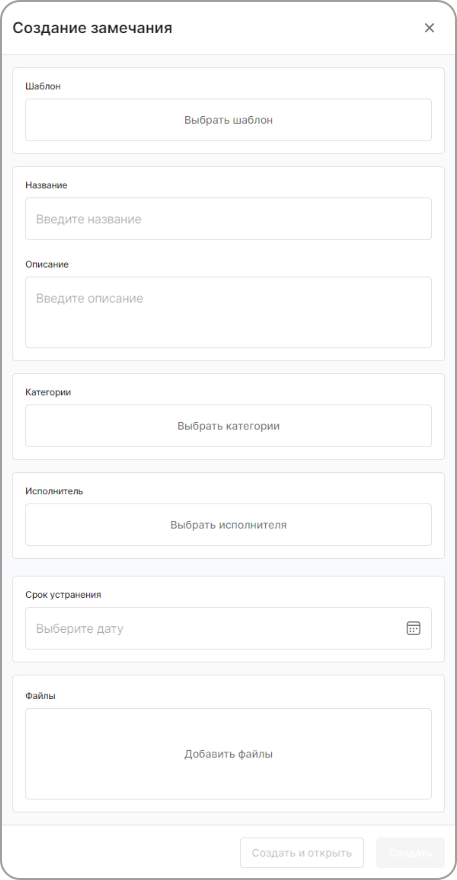
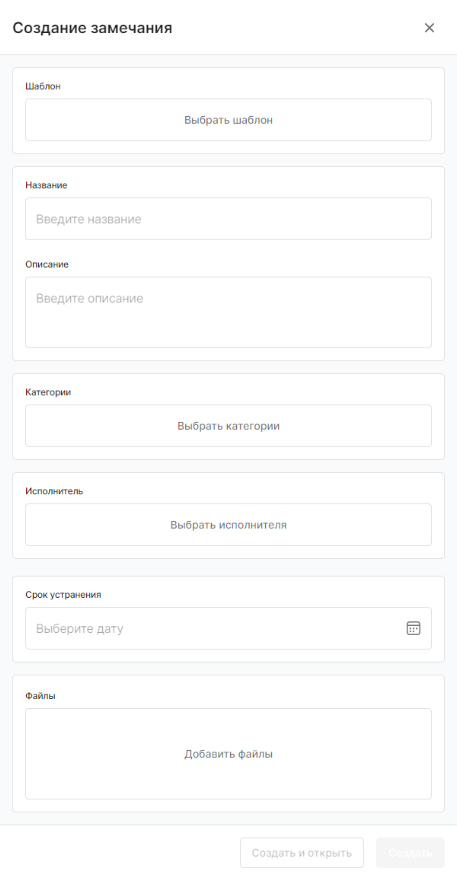
tasc create

Changed region(s): [[0.0, 0.0, 1.0, 1.0]]

diff --git a/docs/_static/css/custom.css b/docs/_static/css/custom.css
@@ -1,5 +1,13 @@
-:root {
-    --pst-color-primary: 51, 51, 51;
+/*:root {
+    --pst-color-primary: green;
+     border: 2px blue;
   }
+.uno img{color: blue;}*/
+.framed img{border:2px solid rgb(184, 180, 180);
+border-radius: 5px;
+}
+/*.framed img{ border: 2px blue;}*/
 
-.framed img { border: 2px #A49E9E;}
+/*:root {
+    --pst-color-primary: 51, 51, 51;
+  }*/

diff --git a/docs/user/work-with-project/work-with-tasks/tasks-creating.rst b/docs/user/work-with-project/work-with-tasks/tasks-creating.rst
@@ -24,6 +24,7 @@
     ..  thumbnail:: images/tasks-creating/tasks-creating-2-adding-task.gif
         :alt: Добавить документацию
         :align: center
+        :class: framed
         :title: Рис. 1. Создание замечания без привязки к плану
         :show_caption: True
 
@@ -40,7 +41,9 @@
 ..  thumbnail:: images/tasks-creating/tasks-creating-3-full-task-view.png
     :alt: Добавить документацию
     :width: 70%
+    :class: framed
     :title: Рис. 2. Развёрнутый вид краткой карточки замечания
+    :align: center
     :show_caption: True
 
 Заполните всю информацию по замечанию, которая доступна на данный момент:
@@ -56,6 +59,7 @@
     ..  thumbnail:: images/tasks-creating/tasks-creating-4-choose-sample.gif
         :alt: Добавить документацию
         :align: center
+        :class: framed
         :title: Рис. 3. Поиск нормативного документа, по ключевым словам, в пункте "Выбрать шаблон"
         :show_caption: True
 
@@ -104,6 +108,7 @@
 ..  thumbnail:: images/tasks-creating/tasks-creating-5-opened-task.png
     :alt: Добавить документацию
     :width: 90%
+    :class: framed
     :title: Рис. 4. Общий вид карточки замечания
     :show_caption: True 
 
@@ -124,15 +129,17 @@
 #.  **Выбрать план**. Прикрепление замечания к чертежу.
 #.  **Выбрать шаблон**. Данная функция позволяет заполнять поля Название и Описание типовыми формулировками.
 #.  **Номер**. Номер замечания выдаётся программой автоматически.
+#.  **Элемент структуры**. В данном поле отображается полный путь до структурного элемента, на котором находится замечание.
 #.  **Название**. Придумайте название для вашего замечания. Название и вся информация в данном разделе должна быть максимально точной, она будет автоматически включена в предписание и отчет.
 #.  **Описание**. Подробно опишите замечание.
 #.  **Местоположение**. В данной строке можно указывать названия осей или локацию, к которой относится замечание.
 #.  **Предложение по устранению**. В этом поле вы можете написать свои рекомендации по устранению нарушения.
 #.  **Категории**. Некий идентификатор, который присваивается замечанию и по которому можно задать фильтр для поиска. Список категорий настраивается в административной панели.
-#.  **Ответственный**. ФИО пользователя контролирующего устранения замечания. По умолчанию заполняется ФИО пользователя, создавшим замечание.
+#.  **Автор**. ФИО пользователя контролирующего устранения замечания. По умолчанию заполняется ФИО пользователя, создавшим замечание.
 #.  **Исполнитель**. Представитель компании, отвечающий за выполнение работ по устранению данного замечания.
-#.  **Срок устранения**. На усмотрение автора замечания. Может быть скорректирован по договоренности с исполнителем.
 #.  **Наблюдатели**. В этом поле вы можете указать участников, которых необходимо дополнительно информировать о ходе устранения нарушения, например, начальника технического надзора. Таких участников может быть несколько.
+#.  **Дата создания**. Данное поле недоступно для редактирования. Оно заполняется автоматически в момент создания замечания.
+#.  **Срок устранения**. На усмотрение автора замечания. Может быть скорректирован по договоренности с исполнителем.
 #.  **Фактическая дата устранения**. Проставляется автоматически при смене статуса замечания на «Проверено».
 #.  **Дата отчетности**. В этом поле вы можете указать дату, которая будет указана в предписании. Можно редактировать.
 
@@ -141,6 +148,7 @@
 ..  thumbnail:: images/tasks-creating/tasks-creating-6-full-view-in-main.png
     :alt: Добавить документацию
     :align: center
+    :class: framed
     :title: Рис. 5. Развёрнутый вариант заполненной вкладки "Главное"
     :show_caption: True
 
@@ -152,6 +160,7 @@
 ..  thumbnail:: images/tasks-creating/tasks-creating-7-full-view-in-files.png
     :alt: Добавить документацию
     :align: center
+    :class: framed
     :title: Рис. 6. Загрузка/удаление файлов
     :show_caption: True
 
@@ -165,6 +174,7 @@
         :alt: Добавить документацию
         :align: center
         :title: Рис. 7. Рисование аннотаций
+        :class: framed
         :show_caption: True
 
 ..  only:: latex
@@ -225,6 +235,7 @@
 ..  thumbnail:: images/tasks-creating/tasks-creating-8-comments.gif
     :alt: Добавить документацию
     :align: center
+    :class: framed
     :title: Рис. 8. Работа с комментариями
     :show_caption: True
 
@@ -243,6 +254,7 @@
         ..  thumbnail:: images/tasks-creating/tasks-creating-26-creating-task-on-plan.gif
             :alt: Замечание на чертеже
             :align: center
+            :class: framed
             :title: Рис. 9. Создание замечания на чертеже
             :show_caption: True
 
@@ -252,6 +264,7 @@
 
         ..  figure:: images/tasks-creating/tasks-creating-26-creating-task-on-plan.png
             :alt: Замечание на чертеже
+            :class: framed
             :align: center
 
             Рис. 9. Создание замечания на чертеже
@@ -270,6 +283,7 @@
     ..  thumbnail:: images/tasks-creating/tasks-creating-31-open-full-form-from-plan.gif
         :alt: Открытие полной карточки
         :align: center
+        :class: framed
         :title: Рис. 10. Открытие полной карточки замечания через чертёж
         :show_caption: True
 

diff --git a/docs/user/work-with-project/interface-view.rst b/docs/user/work-with-project/interface-view.rst
@@ -26,6 +26,7 @@
 
 ..  thumbnail:: images/interface-view-3-menu.gif
     :alt: Меню
+    :class: framed
     :align: center
     :title: Рис. 2. Основное меню
     :show_caption: True
